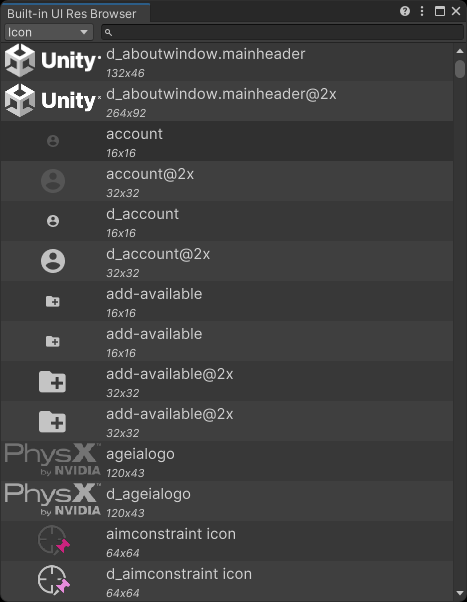
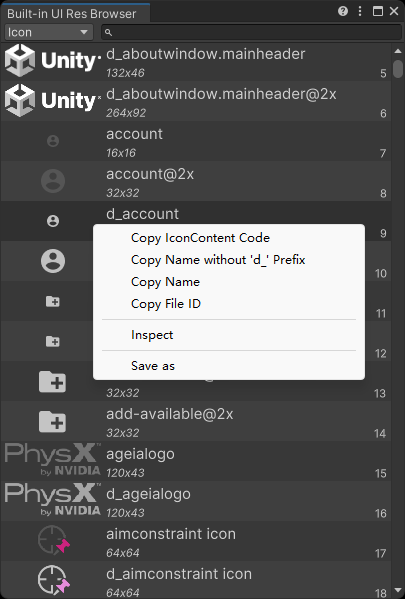
Update Readme

diff --git a/README.md b/README.md
@@ -25,11 +25,11 @@ Open the Editor Icons Overview window from the menu **Tools/Bamboo/Editor Icons 
 左键双击条目，可以在Inspector中检视该条目。<br/>
 Double-click on an entry to inspect it in the Inspector.
 
-右键点击图标条目，可以复制图标名称及代码（Unity会自动根据主题为图标追加 `d_` 前缀）。<br/>
-Right-click on an icon entry to copy the icon name and code (Unity will automatically append `d_` prefix based on the theme).
+右键点击图标条目，可以复制图标名字或代码（Unity会自动根据主题为图标追加 `d_` 前缀）。<br/>
+Right-click on an icon entry to copy the icon name or code (Unity will automatically append `d_` prefix based on the theme).
 
-右键点击Uss和Uxml条目，可以复制文件路径或将其导出。<br/>
-Right-click on a Uss or Uxml entry to copy the file path or export it.
+右键点击StyleSheet和VisualTreeAsset条目，可以复制资产名字、代码或将其导出。<br/>
+Right-click on a StyleSheet or VisualTreeAsset entry to copy the asset name, code or export it.
 
 ---
 
